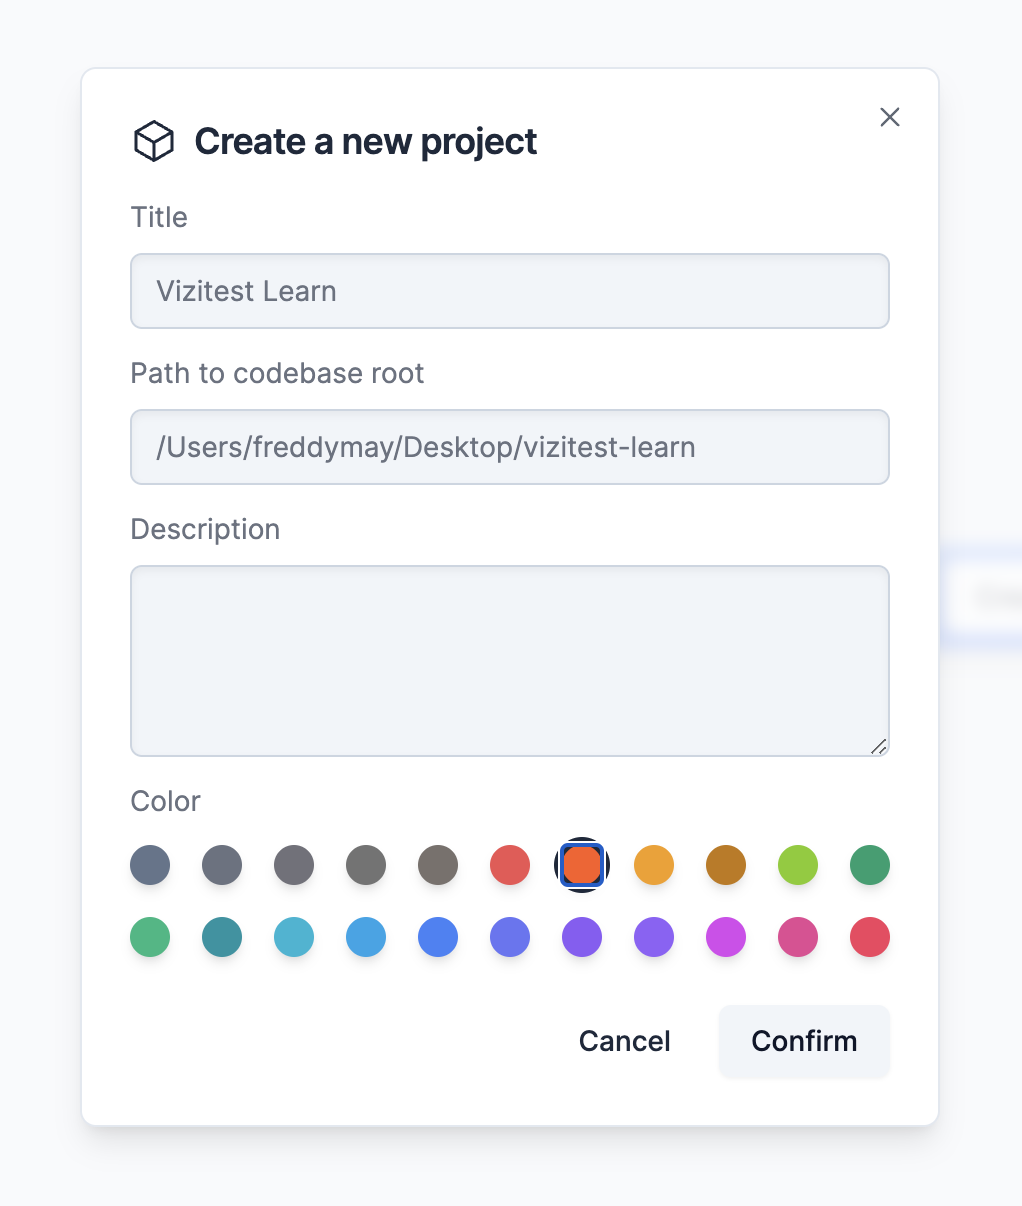
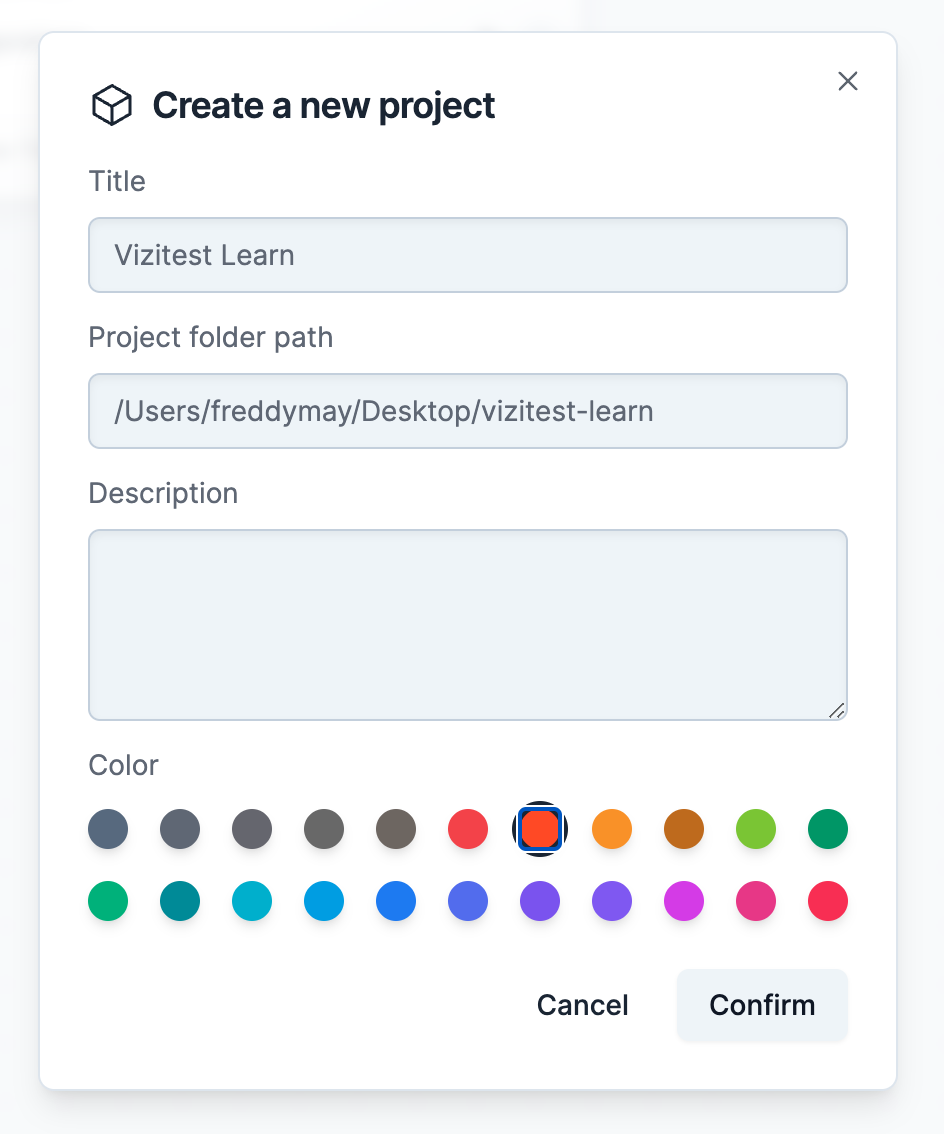
Codebase root -> Project folder and new screenshot
Delete, move, add

diff --git a/Writerside/topics/Add-new-project.md b/Writerside/topics/Add-new-project.md
@@ -2,12 +2,19 @@
 
 A project stores API and Test configurations organized into groups.
 
-Initially, you will not have any projects, so let's create one.
+## Project folder
+Before you create your new project, prepare a folder where the Vizitest project data should be stored. This can be anywhere on your machine,
 
+## Git
+You may want to initialise this folder as a git repository. This will allow you to collaborate with others. 
+
+All Vizitest data is stored as text files, so it works well with Git.
+
+## Create the project
 To add a new project, click the + button next to **Projects**.
 
 1. Enter a project name, such as **Vizitest Learn**. This can only contain valid file name characters.
-2. Provide the name of a folder where your project will exist. This can be anywhere on your machine but it must be a valid, absolute path.
+2. Provide the name of a folder where your project will exist. This can be anywhere on your machine but it must be a valid, absolute path and must already exist,
 3. Enter an optional description.
 4. Choose an optional color. The color only servers as a visual aid to easily differentiate projects from one another.
 
@@ -21,3 +28,8 @@ You will now see your newly created project in the left sidebar. It should be au
 
 You can also see that a group has been created. More about groups shortly.
 
+## Editing the project
+You can change the project name, description and color later by pressing the pencil icon in the bottom right corner of the Project name box (see above image).
+
+You cannot change the project path once created.
+ 

diff --git a/Writerside/topics/Installation-Requirements.md b/Writerside/topics/Installation-Requirements.md
@@ -4,10 +4,16 @@
 <strong>The Vizitest Beta will be available on January 16th. In the meantime, why not explore the documentation?</strong>
 </tip>
 
-## Installation
+## Download and Installation
 Vizitest can be installed in any Windows, Mac or Linux environment.It install its services in the ```.vizitest``` folder in your home folder.
 
-To install Vizitest, please go to https://google.com and follow the instructions provided.
+To install Vizitest, select the OS you are installing onto below and click the link. Once the download is complete, run the installer.
+
+<tabs>
+<tab title="Windows"><a href="https://mrm.automated-software-testing.com/releases/com/ast/vizitest/control/app/1.0-API-0.1.0/app-1.0-API-0.1.0.jar">Click here</a> to download the Windows installer.</tab>
+<tab title="MacOS"><a href="https://mrm.automated-software-testing.com/releases/com/ast/vizitest/control/app/1.0-API-0.1.0/app-1.0-API-0.1.0.jar">Click here</a> to download the MacOS installer.</tab>
+<tab title="Linux"><a href="https://mrm.automated-software-testing.com/releases/com/ast/vizitest/control/app/1.0-API-0.1.0/app-1.0-API-0.1.0.jar">Click here</a> to download the Linux installer.</tab>
+</tabs>
 
 <warning>
 Important: you will be sent an email with instructions. Please check your junk folder if you haven't received it.

diff --git a/Writerside/topics/Deleting-Moving.md b/Writerside/topics/Deleting-Moving.md
@@ -1,0 +1,22 @@
+# Deleting, moving or manually adding projects
+
+## Delete a project
+You can delete a project by hovering over the project name in the Projects list and pressing the delete button.
+
+<note>
+Deleting a project does not delete the project folder or its contents. It simply removes it from the project list.
+
+You can add it back at any stage by adding a new project and pointing to the same folder.
+</note>
+
+<img src="delete-project.png" width="300" alt="delete project"/>
+
+## Moving a project
+Once a project has been created, you cannot change the project's path. If you want to move it elsewhere
+
+- Delete the project from Vizitest.
+- Move project to the new location.
+- Create a new Vizitest project, pointing to the new location.
+
+## Manually adding an existing project
+If you already have a Vizitest project (for example, someone emailed you a ZIP file of the folder), then you unzip and store the folder on your machine and create a new Vizitest project, specifying the folder path.
